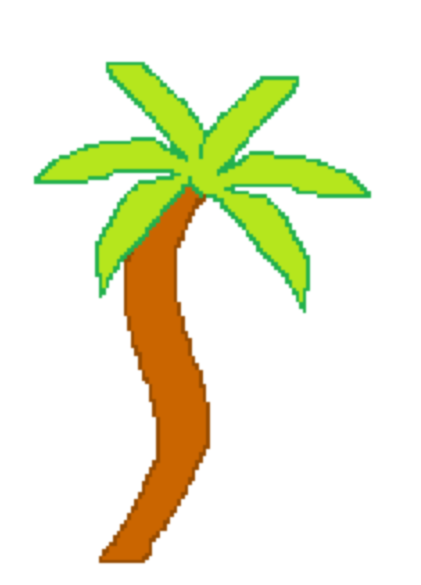
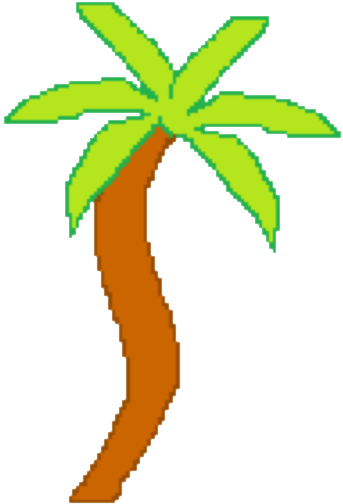
Wczytywaniemapy 2
palmy

diff --git a/v1.0/v1.0/rysuj.cpp b/v1.0/v1.0/rysuj.cpp
@@ -12,41 +12,10 @@ void cPlansza::_Przerysuj(void)
 
 		RysujTlo();
 		//RysujPodloze();
+		
+
 	
-	glEnable(GL_TEXTURE_2D);
-	glColor4f(1, 1, 1, 0.7);
-
-	glTranslatef(-150.0, 0, 0);
-	for (int w = 0; w < 400; w++)
-	{
-		glTranslatef(0, -0.2, 0);
-		glPushMatrix();
-			for (int k = 0; k < 1500; k++)
-			{
-				glTranslatef(0.2, 0, 0);
-				if (tabPol[w][k] == 0x55)
-				{
-				
-					//glTranslatef(-150 + k/5.0, 0-k/5.0, 0);
-					glBindTexture(GL_TEXTURE_2D, TEKSTURA_TRAWA1);
-					glBegin(GL_POLYGON);
-						glTexCoord2f(k%39/40.0, w%7/6.0); 
-							glVertex2f(0, 0);
-
-						glTexCoord2f(k%39/40.0 + 1/40.0, w%7/6.0); 
-							glVertex2f(0.2, 0);
-
-						glTexCoord2f(k%39/40.0 + 1/40.0, w%7/6.0+1/6.0); 
-							glVertex2f(0.2, 0.2);
-
-						glTexCoord2f(k%39/40.0, w%7/6.0+1/6.0); 
-							glVertex2f(-0.2, 0.2);
-					glEnd();
-				}
-			}
-		glPopMatrix();
-	}
-	glDisable(GL_TEXTURE_2D);
+	
 
 
 
@@ -87,12 +56,12 @@ void cPlansza::_Przerysuj(void)
 			tabChmur[i]->Rysuj();
 		}
 
-		for (int i = 0; i < ILOSC_PALM; i++)
+		for (int i = 0; i < tabPalm.size(); i++)
 		{
 			tabPalm[i]->Rysuj();
 		}
 
-
+		RysujPola();
 
 		
 			glPushMatrix();
@@ -172,4 +141,50 @@ void cPlansza::RysujPodloze()
 		glVertex2f(500, -300);
 	glEnd();
 
+}
+
+void cPlansza::RysujPola()
+{
+	glPushMatrix();
+		glTranslatef(-300.0, 0, 0);
+		
+		
+
+		for (int w = 0; w < 400; w++)
+		{
+			glTranslatef(0, -0.4, 0);
+			glPushMatrix();
+			glBegin(GL_QUADS);
+				for (int k = 0; k < 1500; k++)
+				{
+					//glTranslatef(0.4, 0, 0);
+					if (tabPol[w][k] == 0xFF) continue; 
+					if (tabPol[w][k] == 'P') continue;
+					
+					switch (tabPol[w][k])
+					{
+					case 'P':
+						glColor3f(0.3, 0.3, 0.3);
+						break;
+					case 0x71:
+						glColor4f(0.6, 0.4, 0.2, 0.5);
+						break;
+					case 0x55:
+						glColor3f(0.2, 0.8, 0.2);
+						break;
+					}
+						//glVertex2f(0, 0);
+						//glVertex2f(0.4, 0);
+						//glVertex2f(0.4, 0.4);
+						//glVertex2f(0, 0.4);
+						glVertex2f(0 + 0.4*k, 0);
+						glVertex2f(0.4 + 0.4*k, 0);
+						glVertex2f(0.4 + 0.4*k, 0.4);
+						glVertex2f(0 + 0.4*k, 0.4);
+				}
+			glEnd();
+			glPopMatrix();
+		}
+		
+	glPopMatrix();
 }

diff --git a/v1.0/v1.0/cPalma.cpp b/v1.0/v1.0/cPalma.cpp
@@ -28,12 +28,12 @@ void cPalma::Rysuj()
 		glRotatef(kat, 0, 0, 1);
 		glBindTexture(GL_TEXTURE_2D, typPalmy);
 		glEnable(GL_TEXTURE_2D);
-		glColor4f(1, 1, 1, 0.7);
+		glColor4f(1, 1, 1, 0.9);
 		glBegin(GL_QUADS);
-			glTexCoord2f(0.0f, 0.0f); glVertex2f(-rozmiar, 0);
-			glTexCoord2f(1.0f, 0.0f); glVertex2f( rozmiar, 0);
-			glTexCoord2f(1.0f, 1.0f); glVertex2f( rozmiar,  4*rozmiar);
-			glTexCoord2f(0.0f, 1.0f); glVertex2f(-rozmiar,  4*rozmiar);
+			glTexCoord2f(0.0f, 0.0f); glVertex2f(-rozmiar*0.47, -0.3*rozmiar);
+			glTexCoord2f(1.0f, 0.0f); glVertex2f( rozmiar*1.155, -0.3*rozmiar);
+			glTexCoord2f(1.0f, 1.0f); glVertex2f( rozmiar*1.155,  2.5*rozmiar);
+			glTexCoord2f(0.0f, 1.0f); glVertex2f(-rozmiar*0.47,  2.5*rozmiar);
 		glEnd();
 		glDisable(GL_TEXTURE_2D);
 	glPopMatrix();

diff --git a/v1.0/v1.0/naglowki.h b/v1.0/v1.0/naglowki.h
@@ -8,7 +8,7 @@
 #include <cmath>
 #include "cObiekt.h"
 #include "SOIL.h"
-
+#include <vector>
 
 using namespace std;
 
@@ -31,13 +31,12 @@ void Dzialaj(int value);
 #define KAMERA_MIN_ZAKRES 5
 #define KAMERA_MAX_POLOZENIE_X 300
 #define KAMERA_MAX_POLOZENIE_Y 100
-#define KAMERA_MIN_POLOZENIE_Y -30
+#define KAMERA_MIN_POLOZENIE_Y -200
 #define KAMERA_PRZESUWANIE_MYSZA 60
 
 #define ILOSC_CHMUR 8
 #define SZYBKOSC_CHMUR 120.0
 
-#define ILOSC_PALM 8
 
 #define TEKSTURA_CHMURA1 1
 #define TEKSTURA_CHMURA2 2

diff --git a/v1.0/v1.0/cPlansza.h b/v1.0/v1.0/cPlansza.h
@@ -48,15 +48,15 @@ public:
 
 	void TworzTekstury();
 	cChmura* tabChmur[ILOSC_CHMUR];
-	cPalma* tabPalm[ILOSC_PALM];
-
+	vector < cPalma* > tabPalm;
 
 	unsigned char tabPol[400][1500];
 
+	
 
 	void RysujPodloze();
 	void RysujTlo();
-	
+	void RysujPola();
 
 
 	float testowy;

diff --git a/v1.0/v1.0/cPunktStabilny.h b/v1.0/v1.0/cPunktStabilny.h
@@ -1,0 +1,10 @@
+#pragma once
+#include "cobiekt.h"
+class cPunktStabilny :
+	public cObiekt
+{
+public:
+	cPunktStabilny(void);
+	~cPunktStabilny(void);
+};
+

diff --git a/v1.0/v1.0/cPunktStabilny.cpp b/v1.0/v1.0/cPunktStabilny.cpp
@@ -1,0 +1,11 @@
+#include "cPunktStabilny.h"
+
+
+cPunktStabilny::cPunktStabilny(void)
+{
+}
+
+
+cPunktStabilny::~cPunktStabilny(void)
+{
+}
